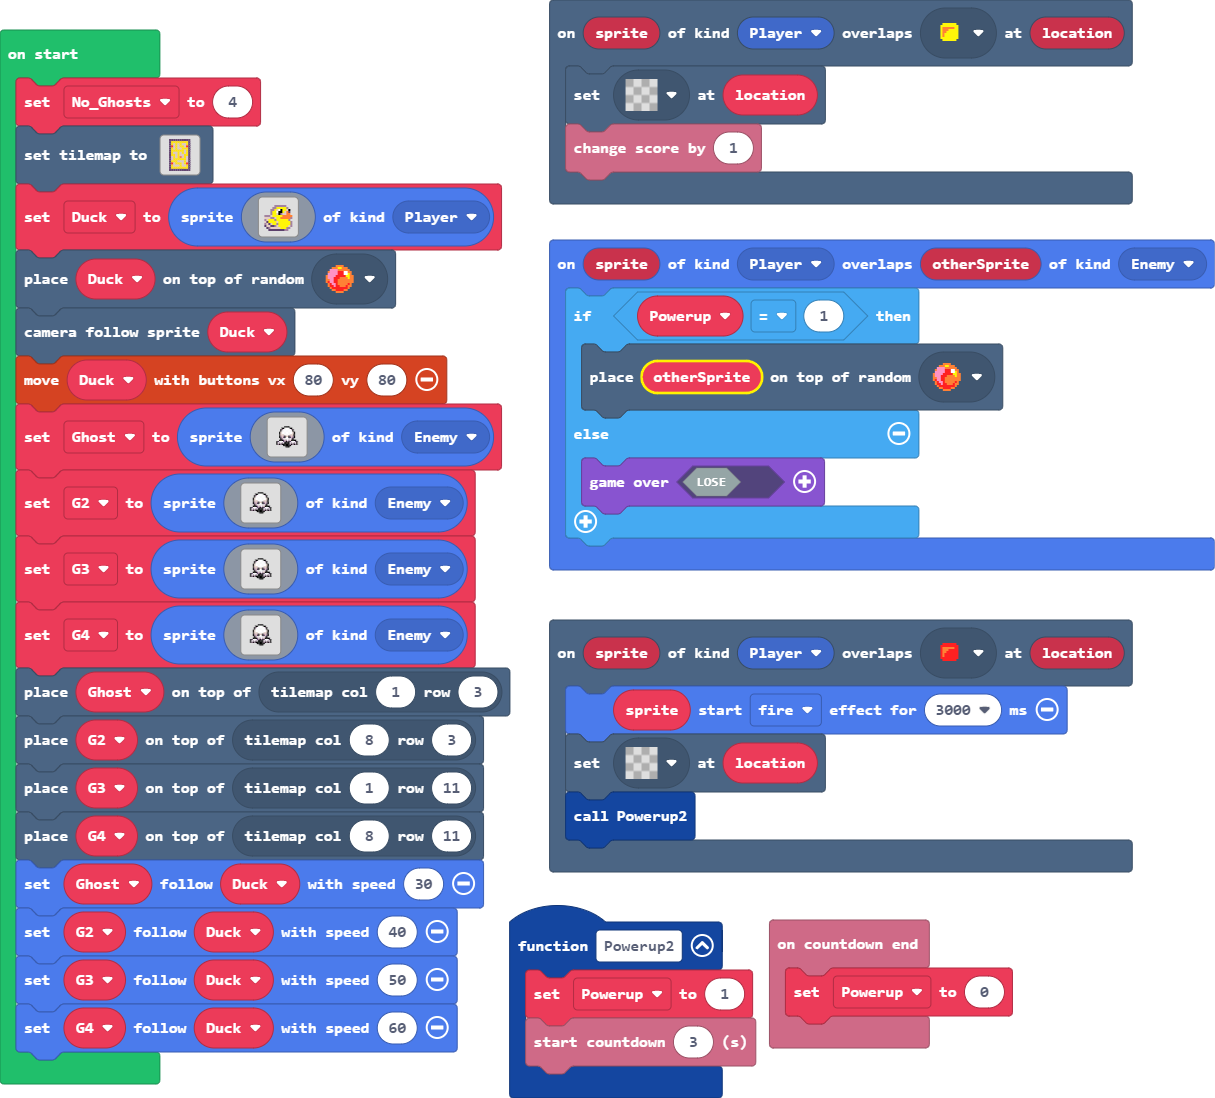
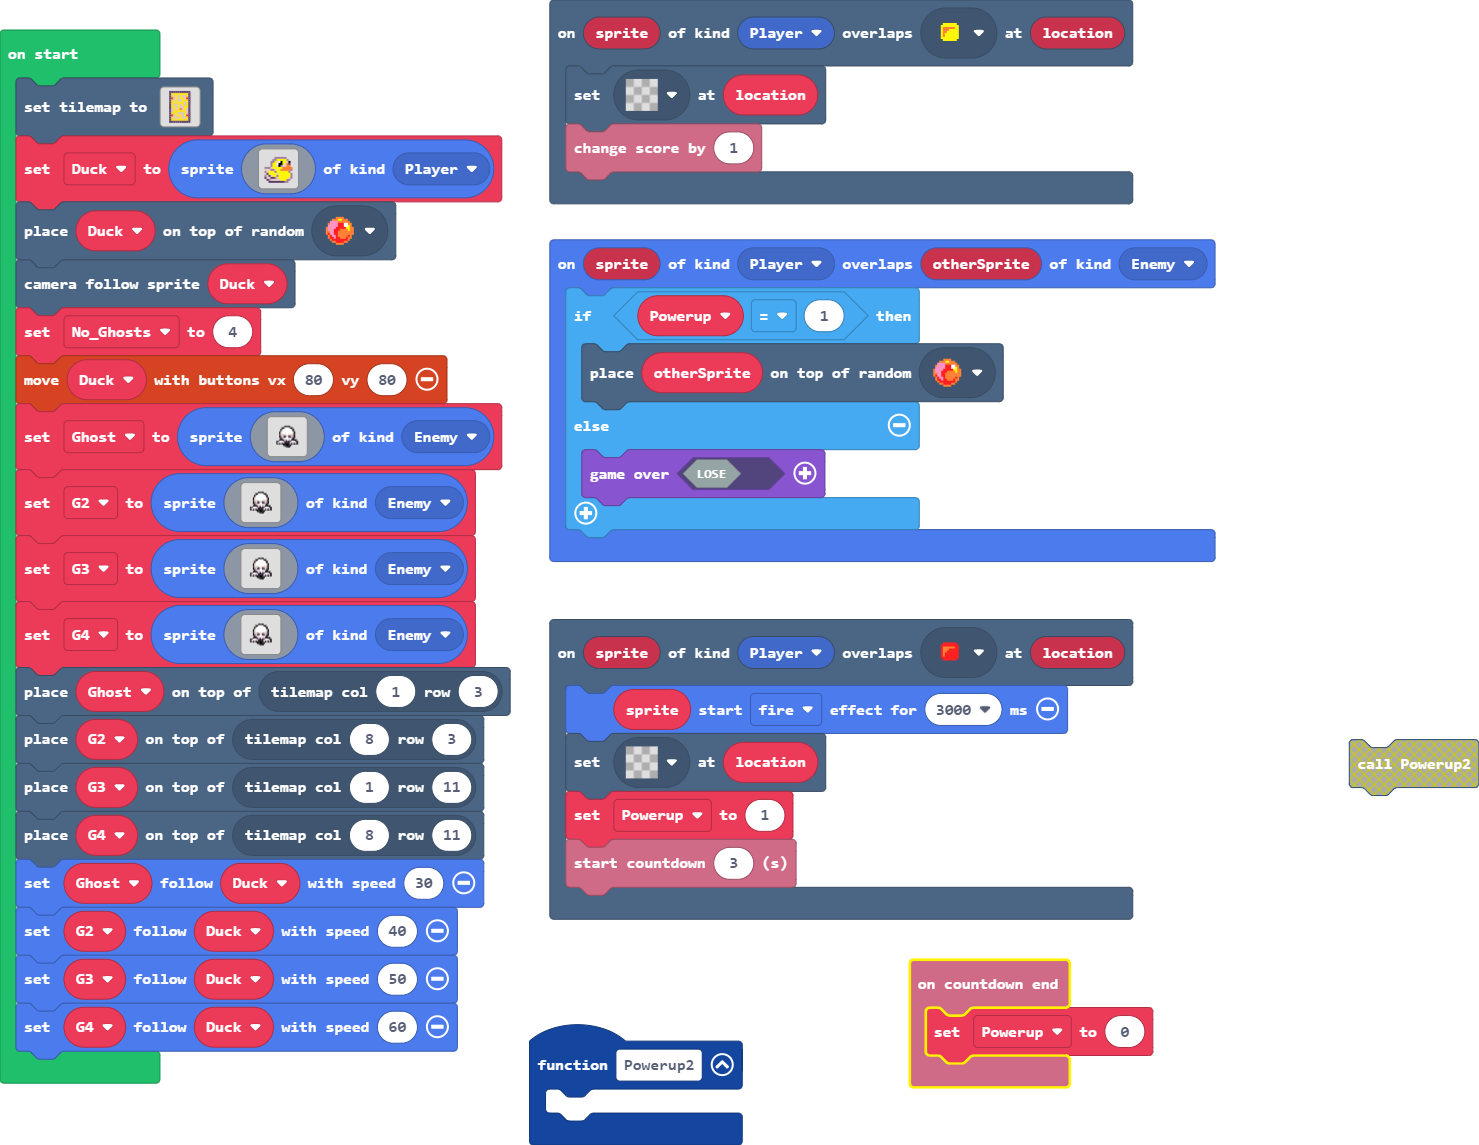
Update pxt.json, main.blocks, main.ts, images.g.jres, images.g.ts

diff --git a/images.g.ts b/images.g.ts
@@ -125,180 +125,6 @@ namespace myImages {
 ........................
 ........................
 `;
-            case "image1":return img`
-........................
-........................
-........................
-........................
-..........ffff..........
-........ff1111ff........
-.......fb111111bf.......
-.......f11111111f.......
-......fd11111111df......
-......fd11111111df......
-......fddd1111dddf......
-......fbdbfddfbdbf......
-......fcdcf11fcdcf......
-.......fb111111bf.......
-......fffcdb1bdffff.....
-....fc111cbfbfc111cf....
-....f1b1b1ffff1b1b1f....
-....fbfbffffffbfbfbf....
-.........ffffff.........
-...........fff..........
-........................
-........................
-........................
-........................
-`;
-            case "image7":return img`
-. . . . . . . . . . . . . . . . 
-. . . . . . . . . . . . . . . . 
-. . . . . . b b b b b b . . . . 
-. . . . . b b 5 5 5 5 5 b . . . 
-. . . . b b 5 d 1 f 5 5 d f . . 
-. . . . b 5 5 1 f f 5 d 4 c . . 
-. . . . b 5 5 d f b d d 4 4 . . 
-. b b b d 5 5 5 5 5 4 4 4 4 4 . 
-. d d d b b d 5 5 4 4 4 4 4 b . 
-. b d 5 5 5 b 5 5 5 5 5 5 b . . 
-. d c 5 5 5 5 d 5 5 5 5 5 5 b . 
-. b d c d 5 5 b 5 5 5 5 5 5 b . 
-. c d d c c b d 5 5 5 5 5 d b . 
-. . c b d d d d d 5 5 5 b b . . 
-. . . c c c c c c c c b b . . . 
-. . . . . . . . . . . . . . . . 
-`;
-            case "image8":return img`
-........................
-........................
-........................
-........................
-..........ffff..........
-........ff1111ff........
-.......fb111111bf.......
-.......f11111111f.......
-......fd11111111df......
-......fd11111111df......
-......fddd1111dddf......
-......fbdbfddfbdbf......
-......fcdcf11fcdcf......
-.......fb111111bf.......
-......fffcdb1bdffff.....
-....fc111cbfbfc111cf....
-....f1b1b1ffff1b1b1f....
-....fbfbffffffbfbfbf....
-.........ffffff.........
-...........fff..........
-........................
-........................
-........................
-........................
-`;
-            case "image9":return img`
-........................
-........................
-........................
-........................
-..........ffff..........
-........ff1111ff........
-.......fb111111bf.......
-.......f11111111f.......
-......fd11111111df......
-......fd11111111df......
-......fddd1111dddf......
-......fbdbfddfbdbf......
-......fcdcf11fcdcf......
-.......fb111111bf.......
-......fffcdb1bdffff.....
-....fc111cbfbfc111cf....
-....f1b1b1ffff1b1b1f....
-....fbfbffffffbfbfbf....
-.........ffffff.........
-...........fff..........
-........................
-........................
-........................
-........................
-`;
-            case "image10":return img`
-........................
-........................
-........................
-........................
-..........ffff..........
-........ff1111ff........
-.......fb111111bf.......
-.......f11111111f.......
-......fd11111111df......
-......fd11111111df......
-......fddd1111dddf......
-......fbdbfddfbdbf......
-......fcdcf11fcdcf......
-.......fb111111bf.......
-......fffcdb1bdffff.....
-....fc111cbfbfc111cf....
-....f1b1b1ffff1b1b1f....
-....fbfbffffffbfbfbf....
-.........ffffff.........
-...........fff..........
-........................
-........................
-........................
-........................
-`;
-            case "image11":return img`
-........................
-........................
-........................
-........................
-..........ffff..........
-........ff1111ff........
-.......fb111111bf.......
-.......f11111111f.......
-......fd11111111df......
-......fd11111111df......
-......fddd1111dddf......
-......fbdbfddfbdbf......
-......fcdcf11fcdcf......
-.......fb111111bf.......
-......fffcdb1bdffff.....
-....fc111cbfbfc111cf....
-....f1b1b1ffff1b1b1f....
-....fbfbffffffbfbfbf....
-.........ffffff.........
-...........fff..........
-........................
-........................
-........................
-........................
-`;
-            case "image12":return img`
-........................
-........................
-........................
-........................
-..........ffff..........
-........ff1111ff........
-.......fb111111bf.......
-.......f11111111f.......
-......fd11111111df......
-......fd11111111df......
-......fddd1111dddf......
-......fbdbfddfbdbf......
-......fcdcf11fcdcf......
-.......fb111111bf.......
-......fffcdb1bdffff.....
-....fc111cbfbfc111cf....
-....f1b1b1ffff1b1b1f....
-....fbfbffffffbfbfbf....
-.........ffffff.........
-...........fff..........
-........................
-........................
-........................
-........................
-`;
         }
         return null;
     })

diff --git a/main.ts b/main.ts
@@ -8,11 +8,11 @@ scene.onOverlapTile(SpriteKind.Player, assets.tile`tile1`, function (sprite, loc
 scene.onOverlapTile(SpriteKind.Player, assets.tile`tile2`, function (sprite, location) {
     sprite.startEffect(effects.fire, 3000)
     tiles.setTileAt(location, assets.tile`transparency16`)
-    Powerup2()
-})
-function Powerup2 () {
     Powerup = 1
     info.startCountdown(3)
+})
+function Powerup2 () {
+	
 }
 sprites.onOverlap(SpriteKind.Player, SpriteKind.Enemy, function (sprite, otherSprite) {
     if (Powerup == 1) {
@@ -22,7 +22,6 @@ sprites.onOverlap(SpriteKind.Player, SpriteKind.Enemy, function (sprite, otherSp
     }
 })
 let Powerup = 0
-let No_Ghosts = 4
 tiles.setTilemap(tilemap`level1`)
 let Duck = sprites.create(img`
     . . . . . . . . . . . . . . . . 
@@ -44,6 +43,7 @@ let Duck = sprites.create(img`
     `, SpriteKind.Player)
 tiles.placeOnRandomTile(Duck, sprites.dungeon.collectibleRedCrystal)
 scene.cameraFollowSprite(Duck)
+let No_Ghosts = 4
 controller.moveSprite(Duck, 80, 80)
 let Ghost = sprites.create(img`
     ........................
